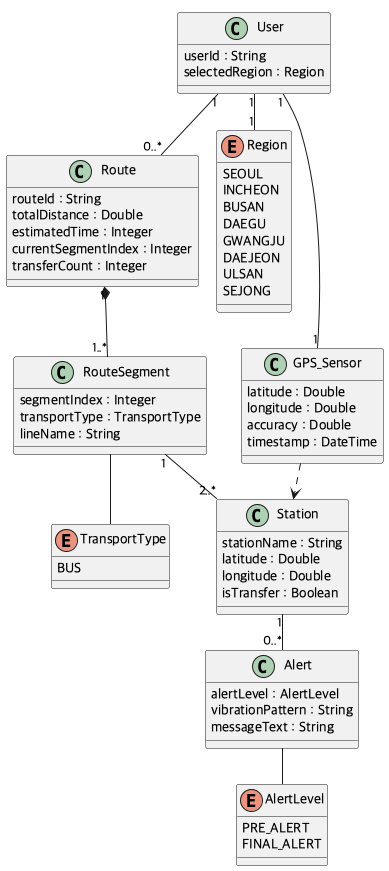
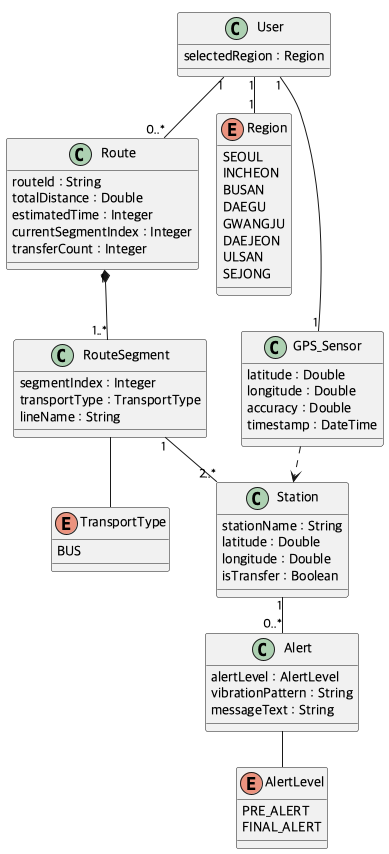
feat: 경로 총 거리 표시·도착 예상 시각 명시 및 도메인 모델 정리
- api.jsx: ODsay 실거리(info.totalDistance)를 distanceM으로 적재
- screens.jsx: routeKm() 추가(실거리 없으면 좌표로 환산), RouteCard에
  "약 N km" 거리 표시 + "예상" 출발·도착 라벨
- navigation.jsx: 안내 화면 "예상 도착" 라벨
- 도메인 모델 정합: User.userId 제거(무계정·기기 단위 동작)
  → domain_class_diagram.puml 수정 + PNG 재생성
- 문서: Analysis(도메인 User·5-2 예상/거리·API 예시) / Design(Route 매핑·distanceM) 정합

Changed region(s): [[0.0, 0.0, 0.9871, 1.0], [0.1234, 0.5785, 0.4319, 0.6698]]

diff --git a/app/screens.jsx b/app/screens.jsx
@@ -349,8 +349,24 @@ function RoutesScreen({ origin, dest, routes, note, onBack, onChoose }) {
   );
 }
 
+// 경로 총 거리(km, 소수 1자리 문자열). ODsay 실거리(distanceM)가 있으면 사용,
+// 없으면(데모·근거리 직행) 정류장 좌표(COORDS) 사이 직선거리를 합산해 환산한다. 좌표가 없으면 null.
+function routeKm(rt) {
+  let m = rt.distanceM || 0;
+  if (!m) {
+    rt.legs.forEach(leg => {
+      for (let i = 0; i < leg.stops.length - 1; i++) {
+        const a = COORDS[leg.stops[i]], b = COORDS[leg.stops[i + 1]];
+        if (a && b) m += distM(a, b);
+      }
+    });
+  }
+  return m > 0 ? (m / 1000).toFixed(1) : null;
+}
+
 function RouteCard({ rt, onChoose }) {
   const rec = rt.recommended;
+  const km = routeKm(rt);
   return (
     <div style={{
       background:T.surface, borderRadius:24, padding:'20px 20px 22px',
@@ -368,7 +384,7 @@ function RouteCard({ rt, onChoose }) {
       <div style={{ display:'flex', alignItems:'baseline', gap:12, marginTop:4 }}>
         <span style={{ fontSize:52, fontWeight:800, color:T.ink, letterSpacing:'-0.03em', lineHeight:1 }}>{rt.durationMin}분</span>
         <span style={{ display:'flex', alignItems:'center', gap:6, fontSize:18, fontWeight:700, color:T.muted }}>
-          <Icon name="clock" size={20} color={T.muted} /> {rt.departAt} → {rt.arriveAt}
+          <Icon name="clock" size={20} color={T.muted} /> 예상 {rt.departAt} → {rt.arriveAt}
         </span>
       </div>
 
@@ -385,6 +401,11 @@ function RouteCard({ rt, onChoose }) {
         <span style={{ display:'inline-flex', alignItems:'center', gap:5, fontSize:16, fontWeight:700, color:T.muted, marginLeft:2 }}>
           <Icon name="walk" size={18} color={T.muted} /> 도보 {rt.walkMin}분
         </span>
+        {km && (
+          <span style={{ display:'inline-flex', alignItems:'center', gap:5, fontSize:16, fontWeight:700, color:T.muted }}>
+            · 약 {km}km
+          </span>
+        )}
       </div>
 
       <div style={{ marginTop:16 }}>

diff --git a/app/navigation.jsx b/app/navigation.jsx
@@ -148,7 +148,7 @@ function NavScreen({ route, soundOn, onToggleSound, onExit, onArrive }) {
           </div>
           <div style={{ display:'flex', alignItems:'center', justifyContent:'center', gap:18, marginTop:18, color:T.inkSoft }}>
             <span style={{ display:'flex', alignItems:'center', gap:7, fontSize:19, fontWeight:700 }}>
-              <Icon name="flag" size={20} color={T.red} /> {route.arriveAt} 도착
+              <Icon name="flag" size={20} color={T.red} /> {route.arriveAt} 예상 도착
             </span>
             <span style={{ width:1, height:18, background:T.line }} />
             <span style={{ fontSize:19, fontWeight:700 }}>약 {minsLeft}분 남음</span>

diff --git a/app/api.jsx b/app/api.jsx
@@ -109,6 +109,7 @@ function mapOdsayPaths(result, coordsOut) {
       recommended: false,
       transfers: Math.max(0, legs.length - 1),
       durationMin: info.totalTime || 0,
+      distanceM: info.totalDistance || 0,   // ODsay 실경로 총거리(m). 없으면 0(표시 시 좌표로 환산)
       walkMin,
       departAt: '', arriveAt: '',
       legs,

diff --git a/Analysis_22212081_문찬주.md b/Analysis_22212081_문찬주.md
@@ -8,6 +8,7 @@
 | 2026-04-19 | 0.0.1 | 초기 분석 보고서 작성 완료 | 문찬주 |
 | 2026-05-02 | 0.0.2 | UI 프로토타입 상세화 및 보고서 정리 | 문찬주 |
 | 2026-06-11 | 0.0.3 | 지나침 알림·안내 중 화면 유지·스크린리더 접근성 반영 | 문찬주 |
+| 2026-06-12 | 0.0.4 | 경로 총 거리 표시·도착 시각 예상값 명시·도메인 모델 정합(userId 제거) | 문찬주 |
 
 ---
 
@@ -105,7 +106,7 @@
 
 | Class Name | Description | Attributes (Public) |
 | --- | --- | --- |
-| **User** | 지역 설정을 관리하는 주체. 실시간 위치는 GPS_Sensor가 담당한다 | `userId`, `selectedRegion` |
+| **User** | 지역 설정을 관리하는 주체. 실시간 위치는 GPS_Sensor가 담당한다. 별도 계정·로그인 없이 기기 단위로 동작한다 | `selectedRegion` |
 | **Route** | 전체 이동 경로 데이터 (자동 전환 로직 포함) | `totalDistance`, `currentSegmentIndex`, `transferCount` |
 | **RouteSegment** | 한 번의 버스 탑승 구간. 환승마다 다음 구간으로 전환되는 단위 | `segmentIndex`, `transportType`, `lineName` |
 | **Station** | 알림 및 자동 전환의 기준이 되는 지리적 지점 | `stationName`, `latitude`, `longitude`, `isTransfer` |
@@ -131,7 +132,7 @@
 
 - **역 정보:** 역 이름, 역 ID, 위도/경도, 지역(도/구) 정보
 - **입력 필드:** 사용자가 입력하는 텍스트, 자동완성 제안 목록
-- **API 응답 형식 예시:** 역 목록 배열 (예: `[{name: "역삼역", id: "123", lat: 37.5, lng: 127.0, region: "서울 강남구"}]`)
+- **API 응답 형식 예시:** 역 목록 배열 (예: `[{id: "123", name: "역삼역", lat: 37.5, lng: 127.0, cls: "subway", region: 1000}]` — `cls`는 버스/지하철 구분, `region`은 ODsay 도시코드 CID)
 
 ### 5) API 연계
 
@@ -172,7 +173,8 @@
 - **Screen 3: Route Recommendation**
   ![Route Recommendation](images/routeRecommendation.png)
   - 추천 경로를 우선으로 보여주고, 대체 경로를 함께 제시한다.
-  - 각 경로별로 환승 횟수, 총 소요 시간, 출발·도착 시각, 노선 번호, 도보 소요 시간(분)을 요약해서 표시한다.
+  - 각 경로별로 환승 횟수, 총 소요 시간, 예상 출발·도착 시각, 노선 번호, 도보 소요 시간(분), 총 거리(약 ○○km)를 요약해서 표시한다.
+  - 출발·도착 시각과 남은 시간은 ODsay의 소요 시간을 현재 시각 기준으로 환산한 **예상값**이다(실시간 버스 위치·교통 정보는 반영하지 않음). 총 거리는 ODsay 실경로 거리이며, 없을 경우 정류장 좌표로 환산한다.
   - 사용자가 선택한 경로 아래에 `이 경로로 안내` 버튼을 배치하여 다음 단계로 자연스럽게 이동한다.
 
 - **Screen 4: Navigation Guide**

diff --git a/Design_22212081_문찬주.md b/Design_22212081_문찬주.md
@@ -10,6 +10,7 @@
 | 2026-05-30 | 0.0.2 | 클래스 관계 설정 및 시퀀스 다이어그램 추가 | 문찬주 |
 | 2026-06-04 | 0.0.3 | 상태 머신 다이어그램 및 구현 요구사항 정리 | 문찬주 |
 | 2026-06-11 | 0.0.4 | 안내 중 화면 유지(Wake Lock)·하차역 지나침 알림·스크린리더(aria-live) 반영 | 문찬주 |
+| 2026-06-12 | 0.0.5 | 경로 총 거리 표시 추가·도착 시각 예상값 명시(문서·앱 정합) | 문찬주 |
 
 ---
 
@@ -73,7 +74,7 @@
 | **RouteSearchUI** | `screens.jsx` `InputScreen` + `SearchPanel` (입력 디바운스 280ms → `searchStations`, 결과 `Row` 렌더, 역 선택 시 `vibrateFeedback()`·`speak()` 피드백) · 경로 요청 `main.jsx` `App.doSearch()` |
 | **LocationService** | `api.jsx` `searchStations(q, region)` (ODsay `searchStation`, 0건 시 접미사 제거 재검색) · 폴백 `screens.jsx` `staticStations(t)` |
 | **RouteCalculator** | `api.jsx` `searchRoutes(origin, dest)` · `mapOdsayPaths()` (버스 구간만 추출; 환승 적은 순→시간순 `sort` = `sortByTransfer`) · 근거리 -98 시 `shortBusRoute()`로 한 정거장 직행 버스 직접 구성 |
-| **Route** | route 객체(`legs[]`, `transfers`, `durationMin`) · 다음 구간 전환 `navigation.jsx` `doTransfer()`/`setLegIdx` · 마지막 구간 판정 `isLastLeg` |
+| **Route** | route 객체(`legs[]`, `transfers`, `durationMin`, `distanceM`=총거리) · 총 거리 표시 `screens.jsx` `routeKm(rt)`(실거리 없으면 좌표로 환산) · 다음 구간 전환 `navigation.jsx` `doTransfer()`/`setLegIdx` · 마지막 구간 판정 `isLastLeg` |
 | **RouteSegment** | leg 객체 `{ mode, line, color, stops[] }` (`data.jsx` `ROUTES` / `api.jsx` 변환 결과) |
 | **Station** | 역 객체 `{ name, lat, lng, id, cls }` · 좌표 사전 `COORDS` (`data.jsx`) |
 | **NavigationManager** | `navigation.jsx` `NavScreen` — 마운트 시 추적 시작 + `useWakeLock(true)`(화면 유지), `geo.coords` 변화 useEffect → `geofenceLeg` → `arriveAt(target)`로 진행·알림·자동 전환, 하차역 최근접(`minAlight`) 추적으로 지나침 감지 |
